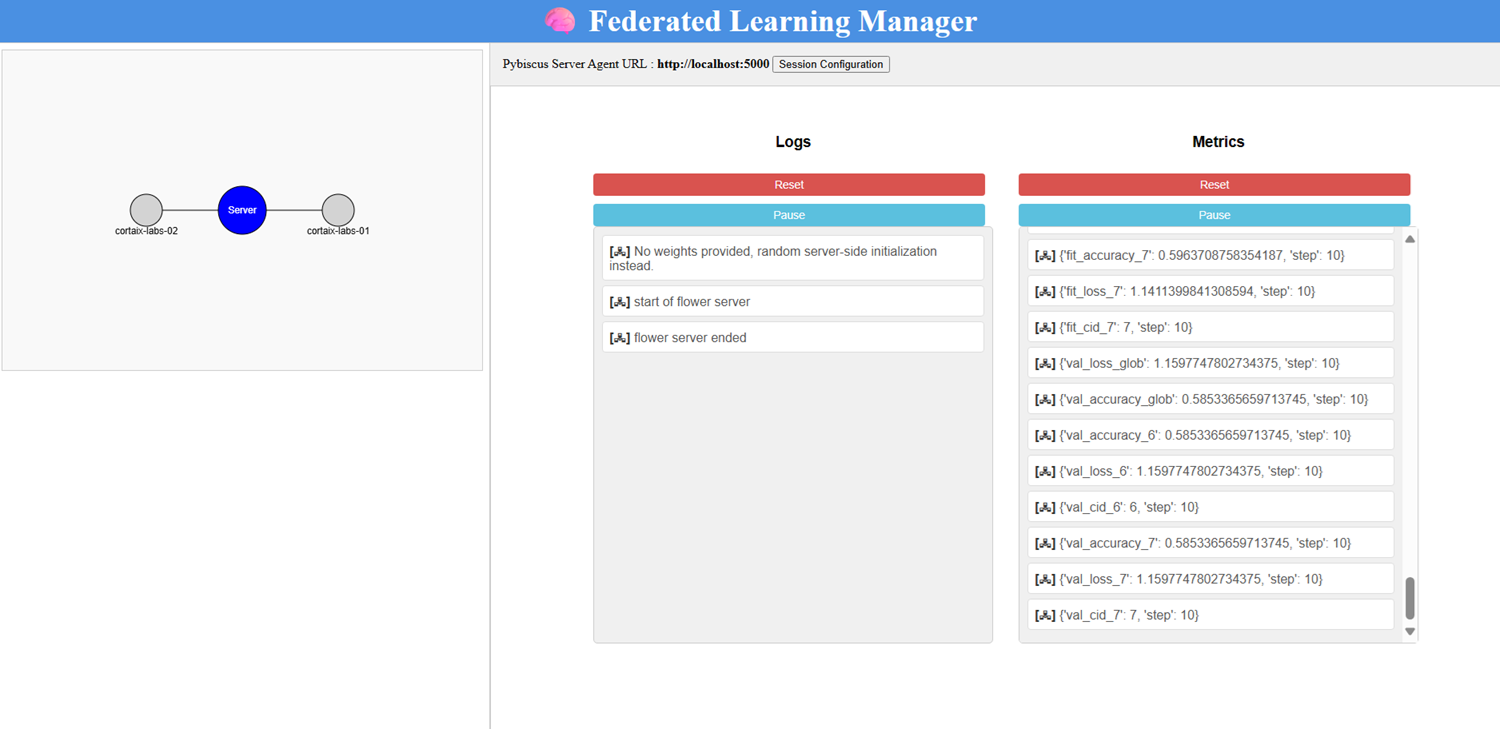
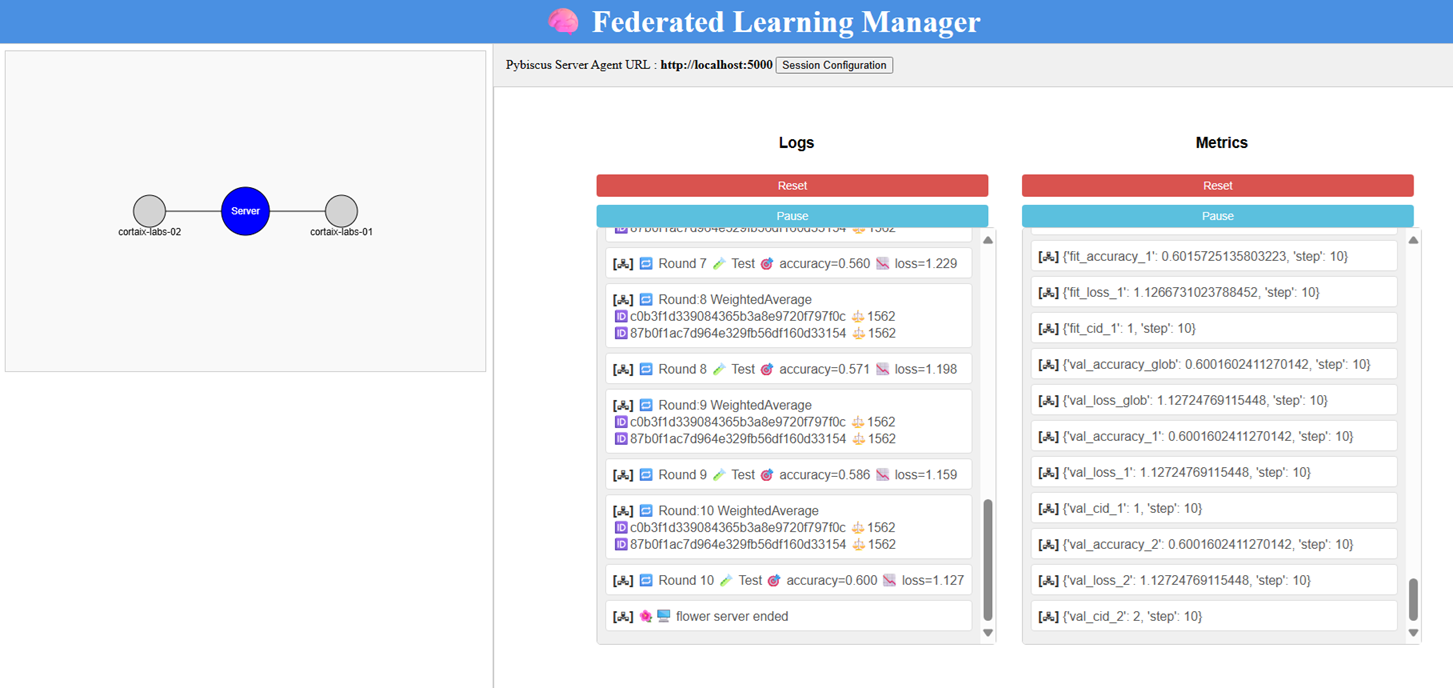
ConfigServerComputeContext has now a list of MetricsLoggerConfig
so now we can attach a list of metrics logger for a server

diff --git a/pybiscus/flower/strategy/fedavg/fedavgstrategy.py b/pybiscus/flower/strategy/fedavg/fedavgstrategy.py
@@ -1,3 +1,4 @@
+from collections import defaultdict
 from logging import WARNING
 from typing import Callable, Literal, Optional, Union, ClassVar
 
@@ -9,7 +10,7 @@ from flwr.common import (
     Parameters,
     Scalar,
     ndarrays_to_parameters,
-    parameters_to_ndarrays,
+    parameters_to_ndarrays as flw_parameters_to_ndarrays,
 )
 from flwr.common.logger import log
 from flwr.server.client_proxy import ClientProxy
@@ -110,14 +111,24 @@ class FabricFedAvgStrategy(fl.server.strategy.FedAvg):
         if self.evaluate_fn is None:
             # No evaluation function provided
             return None
-        parameters_ndarrays = parameters_to_ndarrays(parameters)
+        parameters_ndarrays = flw_parameters_to_ndarrays(parameters)
         eval_res = self.evaluate_fn(server_round, parameters_ndarrays, {})
         if eval_res is None:
             return None
+        
         loss, metrics = eval_res
+
+        emo = defaultdict(str)
+        emo["loss"]     = "📉"
+        emo["accuracy"] = "🎯"
+        logmsg = ""
+
         for key, value in metrics.items():
-            logm.console.log(f"Test at round {server_round}, {key} is {value:.3f}")
+            logmsg += f"{emo[key]} {key}={value:.3f} "
             self.fabric.log(f"val_{key}_glob", value, step=server_round)
+
+        logm.console.log(f"🔁 Round {server_round} 🧪 Test {logmsg}")
+
         return loss, metrics
 
     def aggregate_fit(
@@ -134,11 +145,15 @@ class FabricFedAvgStrategy(fl.server.strategy.FedAvg):
             return None, {}
 
         # Convert results
-        weights_results = [
-            (parameters_to_ndarrays(fit_res.parameters), fit_res.num_examples)
-            for _, fit_res in results
-        ]
-        parameters_aggregated = ndarrays_to_parameters(aggregate(weights_results))
+        tuples_ndarrays_weight = [ (flw_parameters_to_ndarrays(fit_res.parameters), fit_res.num_examples) 
+            for _, fit_res in results ]
+
+        logm.console.log(
+            f"🔁 Round:{server_round} WeightedAverage\n" +
+            "\n".join(f"🆔{client.cid} ⚖{fit_res.num_examples}" for client, fit_res in results)
+        )
+
+        parameters_aggregated = ndarrays_to_parameters(aggregate(tuples_ndarrays_weight))
 
         # Aggregate custom metrics if aggregation fn was provided
         metrics_aggregated = {}

diff --git a/pybiscus/flower/flowerfitresultsaggregator/flowerfitresultsaggregatorusingaverage/flowerfitresultsaggregatorusingaverage.py b/pybiscus/flower/flowerfitresultsaggregator/flowerfitresultsaggregatorusingaverage/flowerfitresultsaggregatorusingaverage.py
@@ -1,8 +1,10 @@
 
 from typing import ClassVar, Literal, Union
 
+import numpy as np
 from pydantic import BaseModel, ConfigDict
 from pybiscus.interfaces.flower.flowerfitresultsaggregator import FlowerFitResultsAggregator
+import pybiscus.core.pybiscus_logger as logm
 
 from flwr.common import (
     FitRes,
@@ -27,20 +29,17 @@ class ConfigFlowerFitResultsAggregatorUsingAverage(BaseModel):
     model_config = ConfigDict(extra="forbid")
 
 
-def pyb_aggregate_unweighted(results):
+def pyb_aggregate_unweighted(ndarrays):
     """Aggregate model parameters with a simple average (non-weighted)."""
 
-    if not results:
+    if not ndarrays:
         return None
 
-    # extract weights from parameters
-    weights = [fit_res.parameters for _, fit_res in results]
-
     # weigths simple average
-    n = len(weights)
-    avg_weights = [ sum(layer) / n for layer in zip(*weights) ]
+    avg_weights = [np.mean(layer_group, axis=0) for layer_group in zip(*ndarrays)]
 
     return avg_weights
+
 
 
 class FlowerFitResultsAggregatorUsingAverage(FlowerFitResultsAggregator):
@@ -56,11 +55,16 @@ class FlowerFitResultsAggregatorUsingAverage(FlowerFitResultsAggregator):
             ) -> Parameters :
         """ Aggregate results : weighted average (with examples number as weight)"""
         
-        tuples_ndarrays_weight = [ (flw_parameters_to_ndarrays(fit_res.parameters), fit_res.num_examples) 
+        ndarrays = [ flw_parameters_to_ndarrays(fit_res.parameters) 
             for _, fit_res in results ]
 
+        logm.console.log(
+            f"🔁 Round:{server_round} Average\n" +
+            "\n".join(f"🆔{client.cid} ⚖1" for client, _ in results)
+        )
+
         # handling of 📥🧬 results
-        aggregated_results    = pyb_aggregate_unweighted(tuples_ndarrays_weight)
+        aggregated_results    = pyb_aggregate_unweighted(ndarrays)
 
         # handling of 📤🧮🧬 aggregated result
         parameters_aggregated = flw_ndarrays_to_parameters(aggregated_results)

diff --git a/pybiscus/commands/app_server.py b/pybiscus/commands/app_server.py
@@ -9,6 +9,7 @@ from pydantic import ValidationError
 from typing import Annotated
 
 from pybiscus.core.logger.multiplelogger.multipleloggerfactory import MultipleLoggerFactory
+from pybiscus.core.metricslogger.multiplemetricslogger.multiplemetricsloggerfactory import MultipleMetricsLoggerFactory
 import pybiscus.core.pybiscus_logger as logm
 from pybiscus.plugin.registries import datamodule_registry, logger_registry, metricslogger_registry, model_registry, strategy_registry
 
@@ -179,13 +180,11 @@ def launch_config(
     if len(_logger_classes) > 0:
         logm.console = MultipleLoggerFactory(_logger_classes).get_logger()
 
-    # load the metricslogger
-    _metricslogger_class = metricslogger_registry()[conf.server_compute_context.metrics_logger.name]
-    _metricsloggerFactory = _metricslogger_class(conf.root_dir,conf.server_compute_context.metrics_logger.config)
+    # load the metricsloggers
+    _metricslogger_classes = [ metricslogger_registry()[mlogger.name](conf.root_dir,config=mlogger.config) for mlogger in conf.server_compute_context.metrics_loggers ]
+    _metricslogger = MultipleMetricsLoggerFactory(conf.root_dir,_metricslogger_classes).get_metricslogger()
 
-    _metricsloggers = _metricsloggerFactory.get_loggers()
-
-    fabric = Fabric(**conf.server_compute_context.hardware.model_dump(), loggers=_metricsloggers)
+    fabric = Fabric(**conf.server_compute_context.hardware.model_dump(), loggers=[_metricslogger])
     fabric.launch()
 
     # load the model

diff --git a/pybiscus/interfaces/core/metricsloggerfactory.py b/pybiscus/interfaces/core/metricsloggerfactory.py
@@ -1,5 +1,49 @@
 
+"""
+PyTorch Lightning – TensorBoardLogger
+
+...
+
+from pytorch_lightning.loggers import TensorBoardLogger
+
+logger = TensorBoardLogger("logs", name="my_model")
+
+...
+
+logger.log_hyperparams(params: dict)
+
+logger.log_hyperparams({"lr": 0.001, "batch_size": 32})
+
+...
+
+logger.experiment
+
+logger.experiment.add_scalar("loss/train", 0.25, step=1)
+logger.experiment.add_text("info", "Training started", step=1)
+logger.experiment.add_histogram("weights", model.layer.weight, step=1)
+
+...
+
+logger.log_metrics(metrics: dict, step: Optional[int])
+
+logger.log_metrics({"accuracy": 0.93}, step=10)
+
+...
+
+logger.save_dir
+
+print(logger.save_dir)  # e.g., "logs"
+
+...
+
+logger.name, logger.version, logger.log_dir
+
+print(logger.name)       # "my_model"
+print(logger.version)    # "version_0"
+print(logger.log_dir)    # logs/my_model/version_0
+
+"""
 class MetricsLoggerFactory:
     
-    def get_loggers(self):
+    def get_metricslogger(self):
         pass

diff --git a/pybiscus/core/metricslogger/multiplemetricslogger/multiplemetricsloggerfactory.py b/pybiscus/core/metricslogger/multiplemetricslogger/multiplemetricsloggerfactory.py
@@ -1,0 +1,25 @@
+
+from pybiscus.core.metricslogger.multiplemetricslogger.multiplemetricslogger import MultipleMetricsLogger, NullMetricsLogger
+from pybiscus.interfaces.core.metricsloggerfactory import MetricsLoggerFactory
+
+
+class MultipleMetricsLoggerFactory(MetricsLoggerFactory):
+
+    def __init__(self, log_dir, factories):
+        super().__init__()
+        self.log_dir=log_dir
+        self.factories = factories
+
+    def get_metricslogger(self):
+
+        loggers = [ factory.get_metricslogger() for factory in self.factories ]
+
+        nb_loggers = len(loggers)
+
+        if  nb_loggers < 1:
+            return NullMetricsLogger(self.log_dir)
+
+        if nb_loggers == 1:
+            return loggers[0]
+         
+        return MultipleMetricsLogger( self.log_dir, loggers )

diff --git a/pybiscus-plugins/strategy/fedavg2/fedavgstrategy2.py b/pybiscus-plugins/strategy/fedavg2/fedavgstrategy2.py
@@ -1,3 +1,4 @@
+from collections import defaultdict
 from logging import WARNING
 from typing import Callable, Literal, Optional, Union, ClassVar
 
@@ -168,9 +169,16 @@ class FabricFedAvgStrategy2(fl.server.strategy.FedAvg):
         
         loss, metrics = eval_res
         
+        emo = defaultdict(str)
+        emo["loss"]     = "📉"
+        emo["accuracy"] = "🎯"
+        logmsg = ""
+
         for key, value in metrics.items():
-            logm.console.log(f"Test at round {server_round}, {key} is {value:.3f}")
+            logmsg += f"{emo[key]} {key}={value:.3f} "
             self.fabric.log(f"val_{key}_glob", value, step=server_round)
+
+        logm.console.log(f"🔁 Round {server_round} 🧪 Test {logmsg}")
 
         return loss, metrics
 

diff --git a/pybiscus-plugins/metricslogger/wandb_/wandbloggerfactory.py b/pybiscus-plugins/metricslogger/wandb_/wandbloggerfactory.py
@@ -96,7 +96,7 @@ class WandbLoggerFactory(MetricsLoggerFactory):
         self.root_dir = root_dir
         self.conf = conf
 
-    def get_loggers(self):
+    def get_metricslogger(self):
 
         if wandb.run is not None:
             return wandb.run
@@ -113,12 +113,12 @@ class WandbLoggerFactory(MetricsLoggerFactory):
             print("C'est un Undefined")
             wandb.init( )
         else:
-            return []
+            return None
 
         wandb_server_run = wandb.init(**self.conf.params.model_dump())
 
         if wandb_server_run is None:
-            return []
+            return None
         else:
-            return[wandb_server_run]
+            return wandb_server_run
         

diff --git a/pybiscus/core/metricslogger/multiplemetricslogger/multiplemetricslogger.py b/pybiscus/core/metricslogger/multiplemetricslogger/multiplemetricslogger.py
@@ -1,0 +1,17 @@
+
+class NullMetricsLogger:
+    def __init__(self, log_dir):
+        self.log_dir = log_dir
+
+    def log_metrics(self, metrics, step=None):
+        pass
+
+class MultipleMetricsLogger( ):
+
+    def __init__(self, log_dir, metrics_loggers):
+        self.metrics_loggers = metrics_loggers
+        self.log_dir = log_dir
+
+    def log_metrics(self, metrics, step=None):
+        for metrics_logger in self.metrics_loggers:
+            metrics_logger.log_metrics(metrics, step)

diff --git a/pybiscus/core/metricslogger/webhook/webhookmetricsloggerfactory.py b/pybiscus/core/metricslogger/webhook/webhookmetricsloggerfactory.py
@@ -32,6 +32,6 @@ class WebHookMetricsLoggerFactory(MetricsLoggerFactory):
         self.root_dir = root_dir
         self.config = config
 
-    def get_loggers(self):
+    def get_metricslogger(self):
 
-        return [ WebHookMetricsLogger(root_dir=self.root_dir,webhook_url=self.config.webhook_url,logger_id=self.config.logger_id) ]
+        return WebHookMetricsLogger(root_dir=self.root_dir,webhook_url=self.config.webhook_url,logger_id=self.config.logger_id)

diff --git a/pybiscus/core/metricslogger/tensorboard/tensorboardloggerfactory.py b/pybiscus/core/metricslogger/tensorboard/tensorboardloggerfactory.py
@@ -36,9 +36,9 @@ class TensorBoardLoggerFactory(MetricsLoggerFactory):
         self.root_dir = root_dir
         self.config = config
 
-    def get_loggers(self):
+    def get_metricslogger(self):
 
         log_dir = self.root_dir + self.config.subdir
         logm.console.log(f"Allocating TensorBoardLoggerFactory(rootidr={log_dir})")
 
-        return [TensorBoardLogger(root_dir=log_dir )]
+        return TensorBoardLogger(root_dir=log_dir )

diff --git a/pybiscus/flower_config/config_computecontext.py b/pybiscus/flower_config/config_computecontext.py
@@ -10,7 +10,7 @@ class ConfigServerComputeContext(BaseModel):
     PYBISCUS_CONFIG: ClassVar[str] = "server_compute_context"
 
     hardware: ConfigHardware
-    metrics_logger: MetricsLoggerConfig() # pyright: ignore[reportInvalidTypeForm]
+    metrics_loggers: list[MetricsLoggerConfig()] # pyright: ignore[reportInvalidTypeForm]
 
     model_config = ConfigDict(extra="forbid")
 

diff --git a/pybiscus/core/metricslogger/webhook/webhookmetricslogger.py b/pybiscus/core/metricslogger/webhook/webhookmetricslogger.py
@@ -8,8 +8,11 @@ class WebHookMetricsLogger():
         self.webhook_url = webhook_url
         self.logger_id = logger_id
 
-    def log_metrics(self, metrics, step):
+    def log_metrics(self, metrics, step=-1):
         
+        if step is None:
+            step = -1
+
         try:
             _metrics = metrics.copy()
             _metrics['step'] = step
